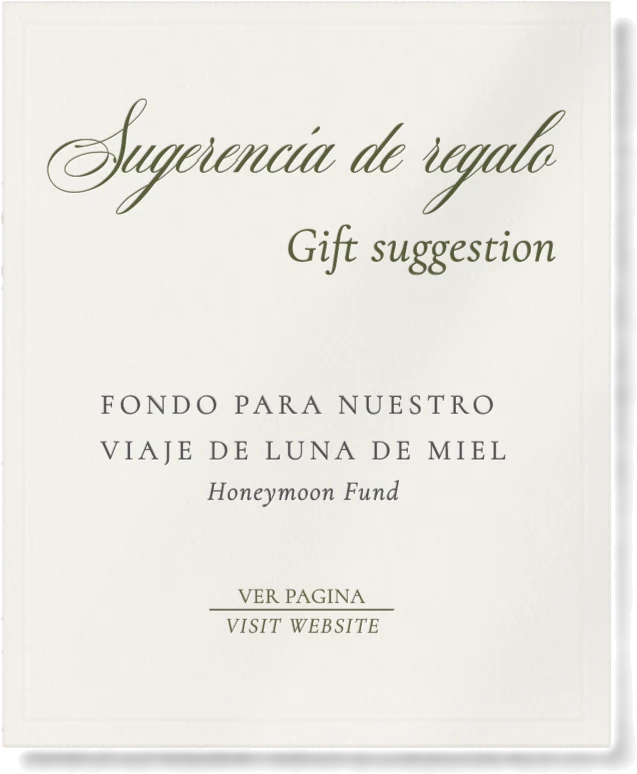
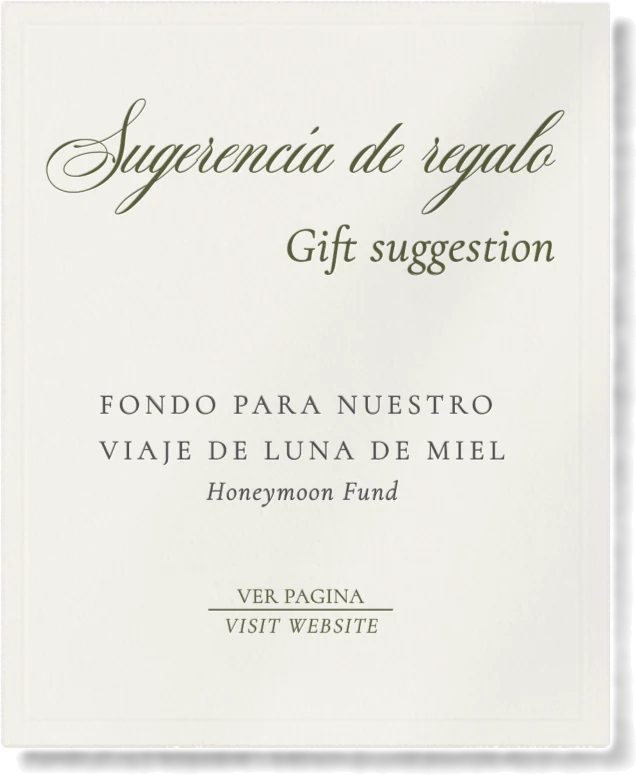
Remove the outline around invitation cards, keep only their shadows
Claude-Session: https://claude.ai/code/session_01VUW2DL1pxHZW5YBbu8ue5b

diff --git a/index.html b/index.html
@@ -20,7 +20,7 @@
 :root{color-scheme:light;--olive:#69722c;--olive-d:#565d27;--ink:#3c3d33;--soft:#5e5f52;--gold:#b8955a;--ivory:#fbf9f4;--line:#e3ddcf}
 *{box-sizing:border-box;min-width:0}
 html{scroll-behavior:smooth}
-body{margin:0;color:var(--ink);font:18px/1.55 "Cormorant Garamond",Georgia,serif;overflow-x:clip;background:#b7ac9d url(img/linen.jpg?v=10);background-size:360px}
+body{margin:0;color:var(--ink);font:18px/1.55 "Cormorant Garamond",Georgia,serif;overflow-x:clip;background:#b7ac9d url(img/linen.jpg?v=11);background-size:360px}
 body.locked{overflow:hidden;height:100vh}
 img{display:block;max-width:100%}
 button{font:inherit}
@@ -30,10 +30,10 @@ button{font:inherit}
 a{color:inherit}
 a[x-apple-data-detectors]{color:inherit!important;text-decoration:none!important;font:inherit!important}
 :focus-visible{outline:2px solid var(--gold);outline-offset:4px}
-.olivefill-unused{background:#93a246 url(img/linen.jpg?v=10);background-blend-mode:multiply;background-size:300px}
+.olivefill-unused{background:#93a246 url(img/linen.jpg?v=11);background-blend-mode:multiply;background-size:300px}
 
 /* ── cover ── */
-#cover{position:fixed;inset:0;z-index:40;display:grid;place-items:center;background:#b7ac9d url(img/linen.jpg?v=10);background-size:360px;transition:opacity 1s cubic-bezier(.4,0,.2,1)}
+#cover{position:fixed;inset:0;z-index:40;display:grid;place-items:center;background:#b7ac9d url(img/linen.jpg?v=11);background-size:360px;transition:opacity 1s cubic-bezier(.4,0,.2,1)}
 #cover.out{opacity:0;pointer-events:none}
 .cv{display:grid;justify-items:center;text-align:center;padding:24px;gap:4px}
 .cv .cvnames{font-size:clamp(46px,10vw,74px);margin:4px 0 30px}
@@ -51,11 +51,11 @@ a[x-apple-data-detectors]{color:inherit!important;text-decoration:none!important
 .e-card .nm{font:500 clamp(18px,4.2vw,26px)/1.05 "Cormorant Garamond",serif;letter-spacing:.08em;color:var(--olive-d)!important}
 .e-card .dt{font-size:12px;letter-spacing:.22em;color:var(--ink)!important;margin-top:4px}
 .e-card span{text-decoration:none!important}
-.e-pocket{z-index:2;inset:0;border-radius:4px;background:url(img/env-real.jpg?v=10) top/100% 100% no-repeat;clip-path:polygon(0 9.95%,49.4% 78.6%,100% 9.95%,100% 100%,0 100%)}
+.e-pocket{z-index:2;inset:0;border-radius:4px;background:url(img/env-real.jpg?v=11) top/100% 100% no-repeat;clip-path:polygon(0 9.95%,49.4% 78.6%,100% 9.95%,100% 100%,0 100%)}
 .e-flap{z-index:3;left:0;top:0;width:100%;height:78.6%;transform-origin:50% 0;transform-style:preserve-3d;transform:rotateX(0deg);transition:transform 1s cubic-bezier(.65,0,.35,1) .25s,z-index 0s .75s;will-change:transform}
 .f-front,.f-back{position:absolute;inset:0;-webkit-backface-visibility:hidden;backface-visibility:hidden}
-.f-front{background:url(img/env-real.jpg?v=10) top/100% 127.2% no-repeat;clip-path:polygon(-1% 0,101% 0,101% 12.7%,49.4% 101.5%,-1% 12.7%)}
-.f-back{background:url(img/env-liner-hd.webp?v=10) center/100% 100% no-repeat;transform:rotateX(180deg)}
+.f-front{background:url(img/env-real.jpg?v=11) top/100% 127.2% no-repeat;clip-path:polygon(-1% 0,101% 0,101% 12.7%,49.4% 101.5%,-1% 12.7%)}
+.f-back{background:url(img/env-liner-hd.webp?v=11) center/100% 100% no-repeat;transform:rotateX(180deg)}
 .e-seal{z-index:4;left:50.4%;top:70.8%;width:15.2%;transform:translate3d(-50%,-50%,0);filter:drop-shadow(0 4px 5px rgba(0,0,0,.35));will-change:transform,opacity}
 .env:not(.open) .e-seal{animation:breathe 2.8s cubic-bezier(.45,0,.55,1) infinite}
 .env.open .e-seal{animation:sealOff .75s cubic-bezier(.4,0,.2,1) forwards}
@@ -103,7 +103,7 @@ body.opened .reenv{opacity:1;pointer-events:auto}
    <div class="e-card"><div class="mono"><b>C</b><i>N</i></div><span class="script">Save the date</span><span class="nm">CAMILA<br>&amp; NICK</span><span class="caps dt"><span>09</span> · <span>04</span> · <span>2027</span></span></div>
    <div class="e-pocket"></div>
    <div class="e-flap"><div class="f-front"></div><div class="f-back"></div></div>
-   <img class="e-seal" src="img/seal-pdf.webp?v=10" alt="">
+   <img class="e-seal" src="img/seal-pdf.webp?v=11" alt="">
   </button>
   <div class="tap caps">Toca para abrir · Tap to see inside</div>
  </div>
@@ -119,12 +119,12 @@ body.opened .reenv{opacity:1;pointer-events:auto}
 <script>
 {
 // One entry per invitation version (Invitados 1, 2, …). Link a guest with ?invitados=2
-const INV={"2": {"w": 1440, "h": 10297, "links": [{"x": 37.714, "y": 43.667, "w": 33.471, "h": 2.107, "uri": "https://maps.app.goo.gl/gSUrrUd9CPuR6mM3A", "label": "Ver ubicaci\u00f3n de la ceremonia \u00b7 Ceremony location"}, {"x": 11.194, "y": 79.533, "w": 28.391, "h": 2.865, "uri": "https://www.camilaandnick.com/registry", "label": "Sugerencia de regalo \u00b7 Gift suggestion"}, {"x": 13.845, "y": 70.021, "w": 37.487, "h": 4.215, "uri": "https://www.camilaandnick.com/", "label": "Ver p\u00e1gina \u00b7 Visit website"}, {"x": 16.118, "y": 89.382, "w": 29.115, "h": 5.616, "uri": "https://www.camilaandnick.com/rsvp", "label": "Confirma aqu\u00ed \u00b7 R.S.V.P. here"}, {"x": 61.064, "y": 68.073, "w": 23.777, "h": 1.975, "uri": "https://maps.app.goo.gl/jxMHLZ9EfkpKpbPw7", "label": "Ver ubicaci\u00f3n de la recepci\u00f3n \u00b7 Reception location"}], "pieces": [{"n": "p1", "x": 3.2639, "y": 2.4473, "w": 93.125, "h": 21.6665}, {"n": "p2", "x": 5.4861, "y": 25.7065, "w": 89.5139, "h": 21.7054}, {"n": "p3", "x": 3.8889, "y": 49.0725, "w": 94.6528, "h": 28.0956}, {"n": "p4", "x": 3.3333, "y": 75.5948, "w": 44.2361, "h": 7.5168}, {"n": "p5", "x": 6.6667, "y": 73.8079, "w": 90.7639, "h": 22.5891}]}};
+const INV={"2": {"w": 1440, "h": 10297, "links": [{"x": 37.714, "y": 43.667, "w": 33.471, "h": 2.107, "uri": "https://maps.app.goo.gl/gSUrrUd9CPuR6mM3A", "label": "Ver ubicaci\u00f3n de la ceremonia \u00b7 Ceremony location"}, {"x": 11.194, "y": 79.533, "w": 28.391, "h": 2.865, "uri": "https://www.camilaandnick.com/registry", "label": "Sugerencia de regalo \u00b7 Gift suggestion"}, {"x": 13.845, "y": 70.021, "w": 37.487, "h": 4.215, "uri": "https://www.camilaandnick.com/", "label": "Ver p\u00e1gina \u00b7 Visit website"}, {"x": 16.118, "y": 89.382, "w": 29.115, "h": 5.616, "uri": "https://www.camilaandnick.com/rsvp", "label": "Confirma aqu\u00ed \u00b7 R.S.V.P. here"}, {"x": 61.064, "y": 68.073, "w": 23.777, "h": 1.975, "uri": "https://maps.app.goo.gl/jxMHLZ9EfkpKpbPw7", "label": "Ver ubicaci\u00f3n de la recepci\u00f3n \u00b7 Reception location"}], "pieces": [{"n": "p1", "x": 3.3333, "y": 2.4279, "w": 93.0556, "h": 22.0938}, {"n": "p2", "x": 5.4861, "y": 25.7162, "w": 89.7917, "h": 21.6859}, {"n": "p3", "x": 3.9583, "y": 49.0725, "w": 94.6528, "h": 28.0956}, {"n": "p4", "x": 3.4028, "y": 75.5948, "w": 44.1667, "h": 7.5265}, {"n": "p5", "x": 6.5972, "y": 73.8079, "w": 90.8333, "h": 22.5308}]}};
 const want=new URLSearchParams(location.search).get('invitados');
 const key=INV[want]?want:Object.keys(INV)[0], v=INV[key];
 const pdf=document.getElementById('pdf');
 pdf.style.aspectRatio=v.w+'/'+v.h;
-const pieces=v.pieces.map((pc,i)=>{const im=document.createElement('img');im.src='img/inv/inv'+key+'-'+pc.n+'.webp?v=10';im.alt=i?'':'Invitación de Camila y Nick';im.decoding='async';
+const pieces=v.pieces.map((pc,i)=>{const im=document.createElement('img');im.src='img/inv/inv'+key+'-'+pc.n+'.webp?v=11';im.alt=i?'':'Invitación de Camila y Nick';im.decoding='async';
  im.style.cssText='left:'+pc.x+'%;top:'+pc.y+'%;width:'+pc.w+'%';pdf.appendChild(im);return im});
 v.links.forEach(l=>{const a=document.createElement('a');a.className='hot';a.href=l.uri;a.setAttribute('aria-label',l.label);
  a.style.cssText='left:'+l.x+'%;top:'+l.y+'%;width:'+l.w+'%;height:'+l.h+'%';pdf.appendChild(a)});
